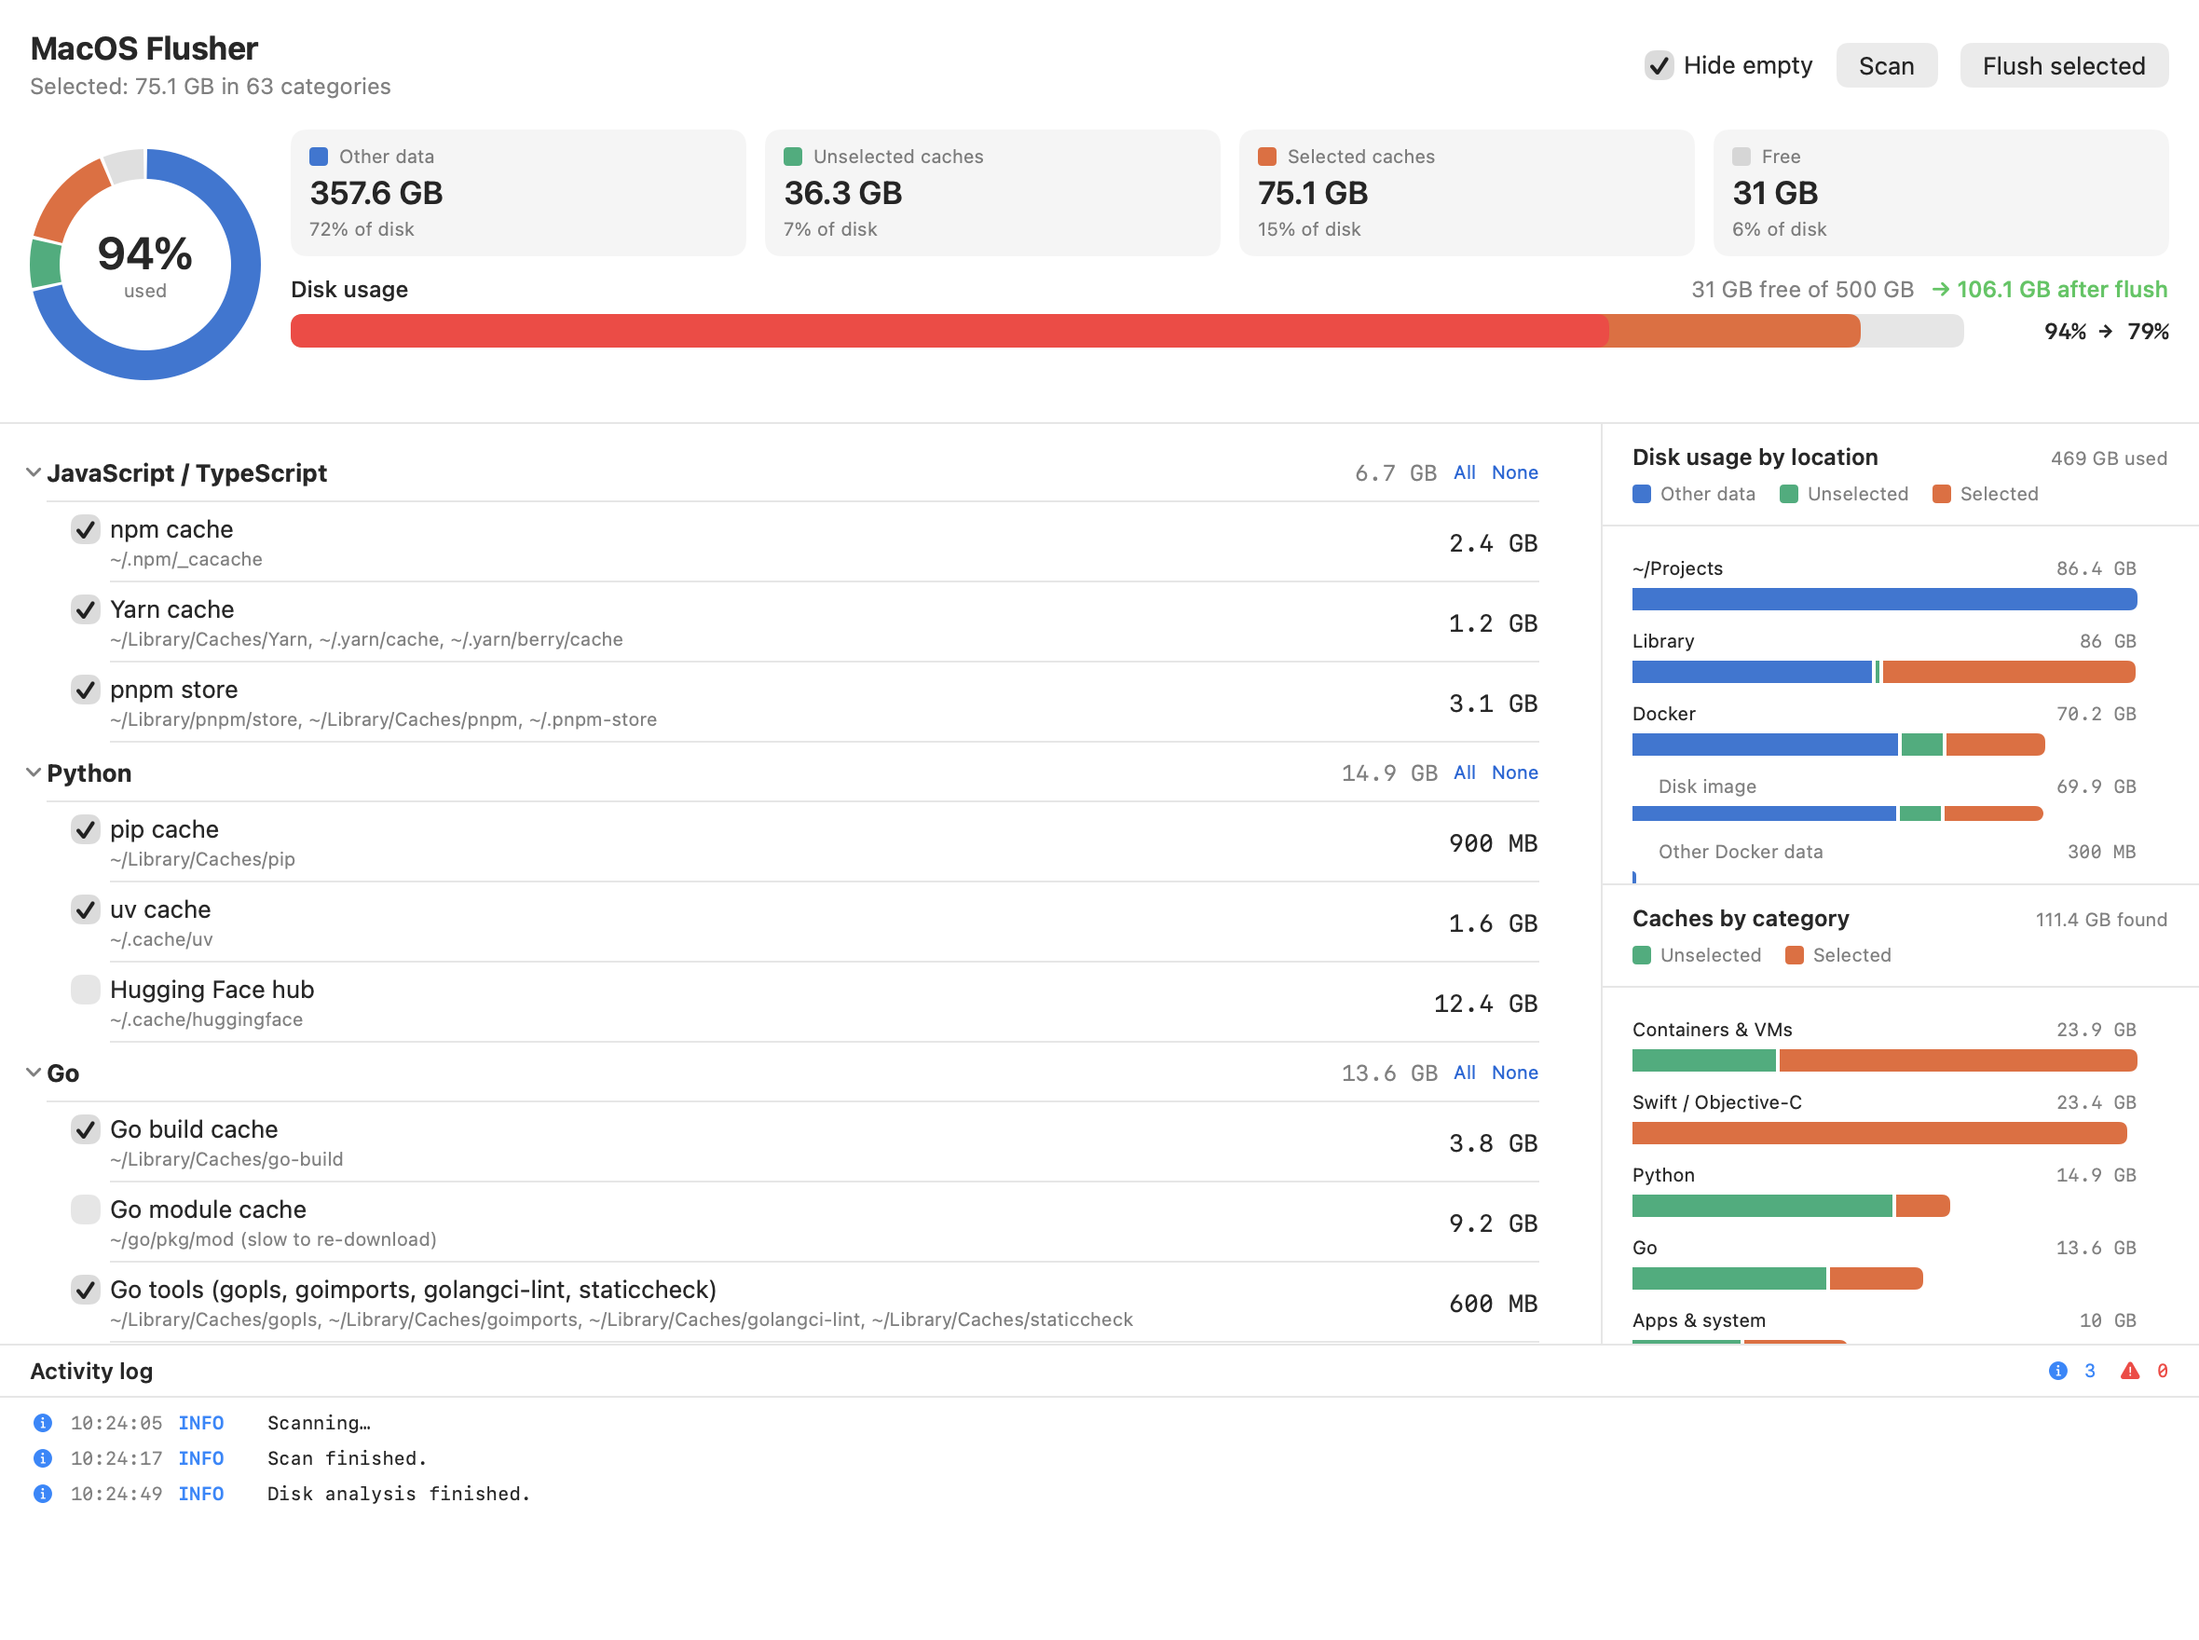
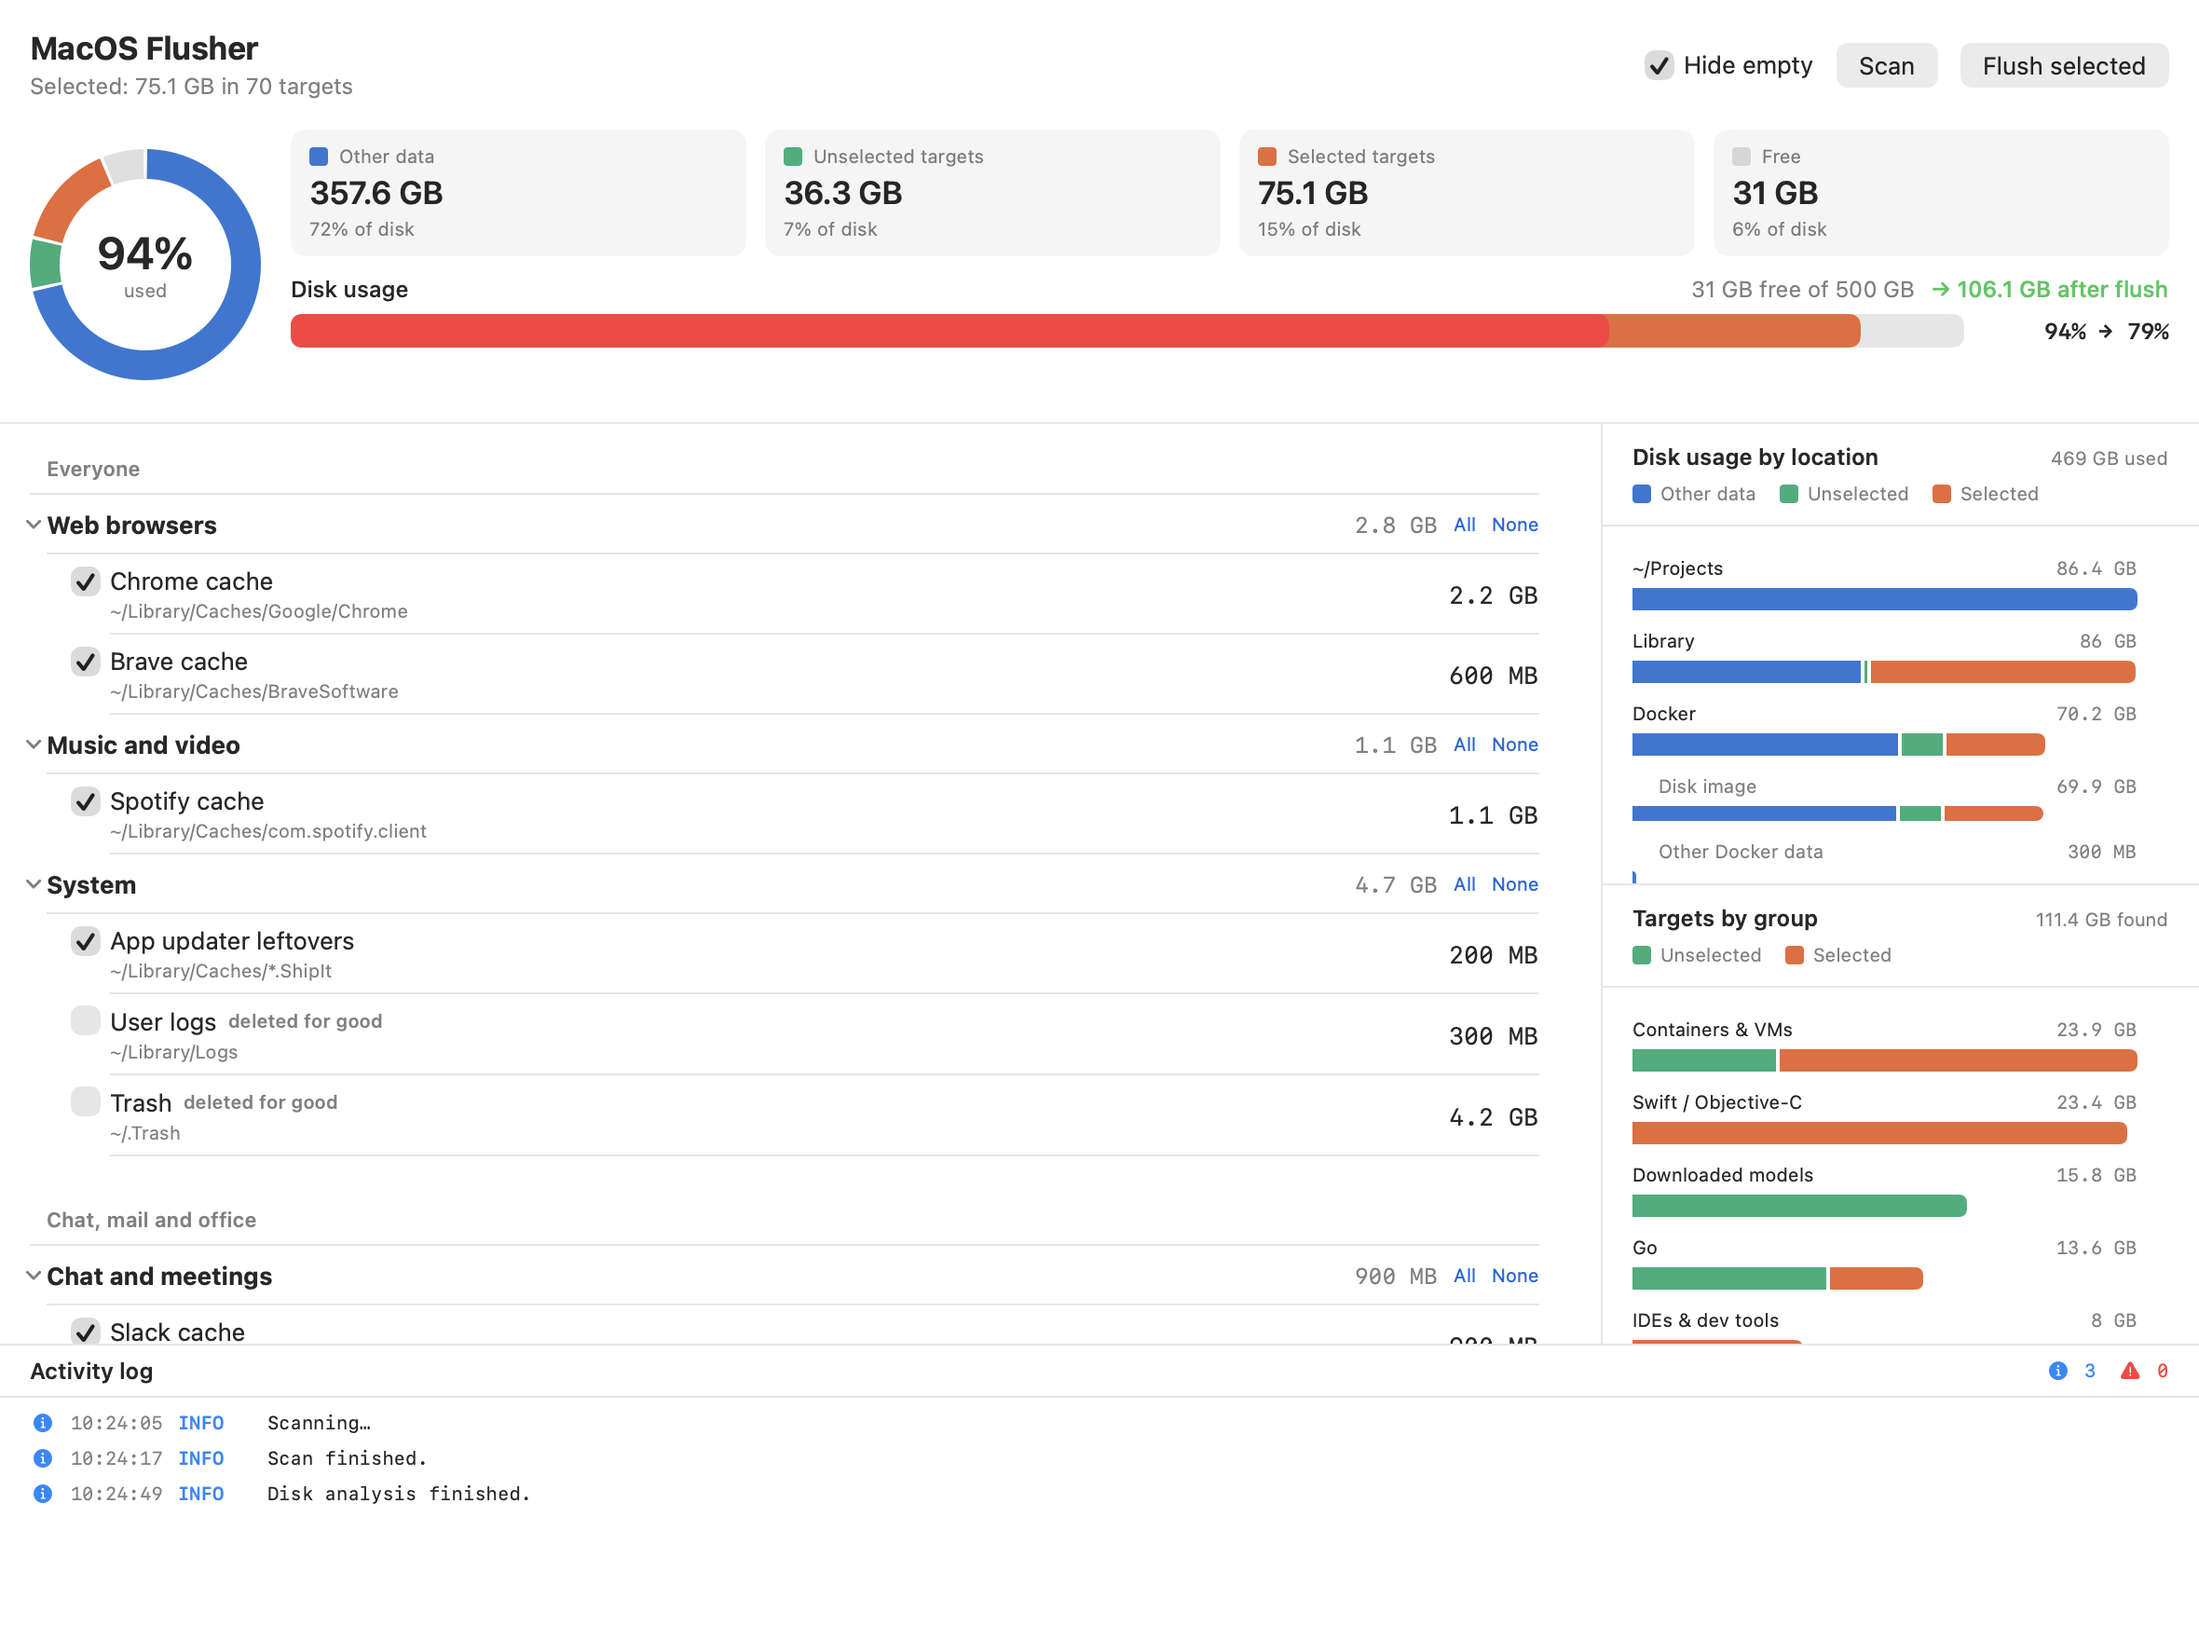
Site: screenshots of the current app

diff --git a/docs/index.html b/docs/index.html
@@ -82,7 +82,7 @@
 <div class="showcase">
   <div class="container">
     <div class="shot lifted">
-      <img src="assets/shots/main-light.png" width="2360" height="1760" alt="Main window with the disk overview, the list of caches, two charts and the activity log">
+      <img src="assets/shots/main-light.png" width="2360" height="1760" alt="Main window with the disk overview, the list of targets by audience, two charts and the activity log">
     </div>
   </div>
 </div>
@@ -153,7 +153,7 @@
           </ul>
         </div>
         <div class="shot narrow">
-          <img src="assets/shots/charts-light.png" width="642" height="986" loading="lazy" alt="Charts of disk usage by location and caches by category">
+          <img src="assets/shots/charts-light.png" width="642" height="986" loading="lazy" alt="Charts of disk usage by location and targets by group">
         </div>
       </div>
       <div class="step wide">
